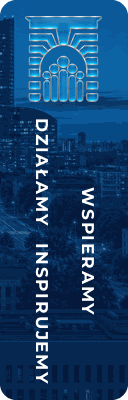
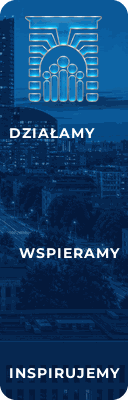
feat(stopki): hasło na pasie do masówek poziomo, na przemian przy krawędziach

Changed region(s): [[0.0625, 0.45, 0.9375, 0.96], [0.0625, 0.3, 0.75, 0.57]]

diff --git a/scripts/build-signature-gif.py b/scripts/build-signature-gif.py
@@ -19,7 +19,7 @@ WYNIKI (public/sig/)
   danych - grafika sięga od góry do dołu karty).
 - grafika.png 500×380 - ostatnia klatka bez ruchu.
 - grafika-pas.png 128×400 - pionowy pas do masówek (w stopce 64×200): brama
-  u góry, trzy słowa hasła pionowo, na przemian w dwóch kolumnach. Mieści się obok danych także na telefonie.
+  u góry, trzy słowa hasła poziomo, na przemian przy lewej i prawej krawędzi. Mieści się obok danych także na telefonie.
 - grafika-mala.png 220×380 - dawny pas do masówek (110×190); zostaje dla
   stopek już wklejonych w skrzynkach.
 
@@ -156,7 +156,7 @@ def frame(base: Image.Image, *, rise=0.0, glow=0.0, sweep=None, slogan=1.0, w=W,
 
 
 def pas(w: int = 128, h: int = 400) -> Image.Image:
-    """Pionowy pas do masówek: panorama, brama u góry, hasło pionowo po szachownicy."""
+    """Pionowy pas do masówek: panorama, brama u góry, hasło poziomo po szachownicy."""
     img = cover(Image.open(SRC / "panorama.jpg").convert("RGB"), w, h).convert("RGBA")
     dark = Image.new("RGBA", (w, h), (6, 18, 52, 255))
     dark.putalpha(Image.linear_gradient("L").resize((w, h)).point(lambda v: round(40 + v * 0.5)))
@@ -165,37 +165,30 @@ def pas(w: int = 128, h: int = 400) -> Image.Image:
     gw = round(w * 0.6)
     gate = gate.resize((gw, round(gate.height * gw / gate.width)), Image.LANCZOS)
     img.alpha_composite(gate, ((w - gw) // 2, 16))
-    # Hasło „po szachownicy”: trzy słowa pisane pionowo (czytane z góry na dół),
-    # na przemian w lewej i prawej kolumnie - DZIAŁAMY z lewej u góry,
-    # WSPIERAMY z prawej niżej, INSPIRUJEMY znów z lewej na dole.
-    font = ImageFont.truetype(str(ROOT / "scripts" / "fonts" / "Montserrat-wght.ttf"), 17)
-    font.set_variation_by_name("Bold")
-    tracking = 1.8
-
-    def slowo(tekst: str) -> Image.Image:
-        dl = round(sum(font.getlength(c) + tracking for c in tekst) - tracking)
-        warstwa = Image.new("RGBA", (dl + 4, 28), (0, 0, 0, 0))
-        d = ImageDraw.Draw(warstwa)
-        x = 2.0
-        for c in tekst:
-            d.text((x, 2), c, font=font, fill=(255, 255, 255, 255))
+    # Hasło „po szachownicy”: trzy słowa poziomo, na przemian przy lewej
+    # i prawej krawędzi (DZIAŁAMY z lewej, WSPIERAMY z prawej, INSPIRUJEMY
+    # z lewej), rozłożone równo pod bramą. Wielkość liter dobrana tak, żeby
+    # najdłuższe słowo zmieściło się w szerokości pasa.
+    tracking = 1.0
+    margines = 9
+    slowa = ("DZIAŁAMY", "WSPIERAMY", "INSPIRUJEMY")
+    rozmiar = 20
+    while True:
+        font = ImageFont.truetype(str(ROOT / "scripts" / "fonts" / "Montserrat-wght.ttf"), rozmiar)
+        font.set_variation_by_name("Bold")
+        szer = [sum(font.getlength(c) + tracking for c in t) - tracking for t in slowa]
+        if max(szer) <= w - 2 * margines or rozmiar <= 10:
+            break
+        rozmiar -= 1
+    d = ImageDraw.Draw(img)
+    gora = 16 + gate.height + 22
+    dol = h - 22 - rozmiar
+    for i, (t, sz) in enumerate(zip(slowa, szer)):
+        y = round(gora + i * (dol - gora) / 2)
+        x = margines if i % 2 == 0 else w - margines - sz
+        for c in t:
+            d.text((x, y), c, font=font, fill=(255, 255, 255, 255))
             x += font.getlength(c) + tracking
-        # -90°: czytane z góry na dół, więc kolejność słów zgadza się z kolejnością
-        # czytania (góra → środek → dół). Przy +90° lewa kolumna dawała
-        # „INSPIRUJEMY DZIAŁAMY”.
-        return warstwa.rotate(-90, expand=True)
-
-    slowa = [slowo(t) for t in ("DZIAŁAMY", "WSPIERAMY", "INSPIRUJEMY")]
-    gora = 16 + gate.height + 14
-    dol = h - 14
-    # Lewa kolumna: DZIAŁAMY od góry pola, INSPIRUJEMY do dołu. Prawa:
-    # WSPIERAMY pośrodku - wypada między nimi, jak pola szachownicy.
-    lewa, prawa = round(w * 0.32), round(w * 0.68)
-    dz, ws, ins = slowa
-    assert dz.height + ins.height + 8 <= dol - gora, "słowa w lewej kolumnie nachodzą na siebie"
-    img.alpha_composite(dz, (lewa - dz.width // 2, gora))
-    img.alpha_composite(ins, (lewa - ins.width // 2, dol - ins.height))
-    img.alpha_composite(ws, (prawa - ws.width // 2, gora + (dol - gora - ws.height) // 2))
     m = Image.new("L", (w * 4, h * 4), 0)
     ImageDraw.Draw(m).rounded_rectangle((0, 0, w * 4 - 1, h * 4 - 1), 16 * 4, fill=255)
     img.putalpha(m.resize((w, h), Image.LANCZOS))
